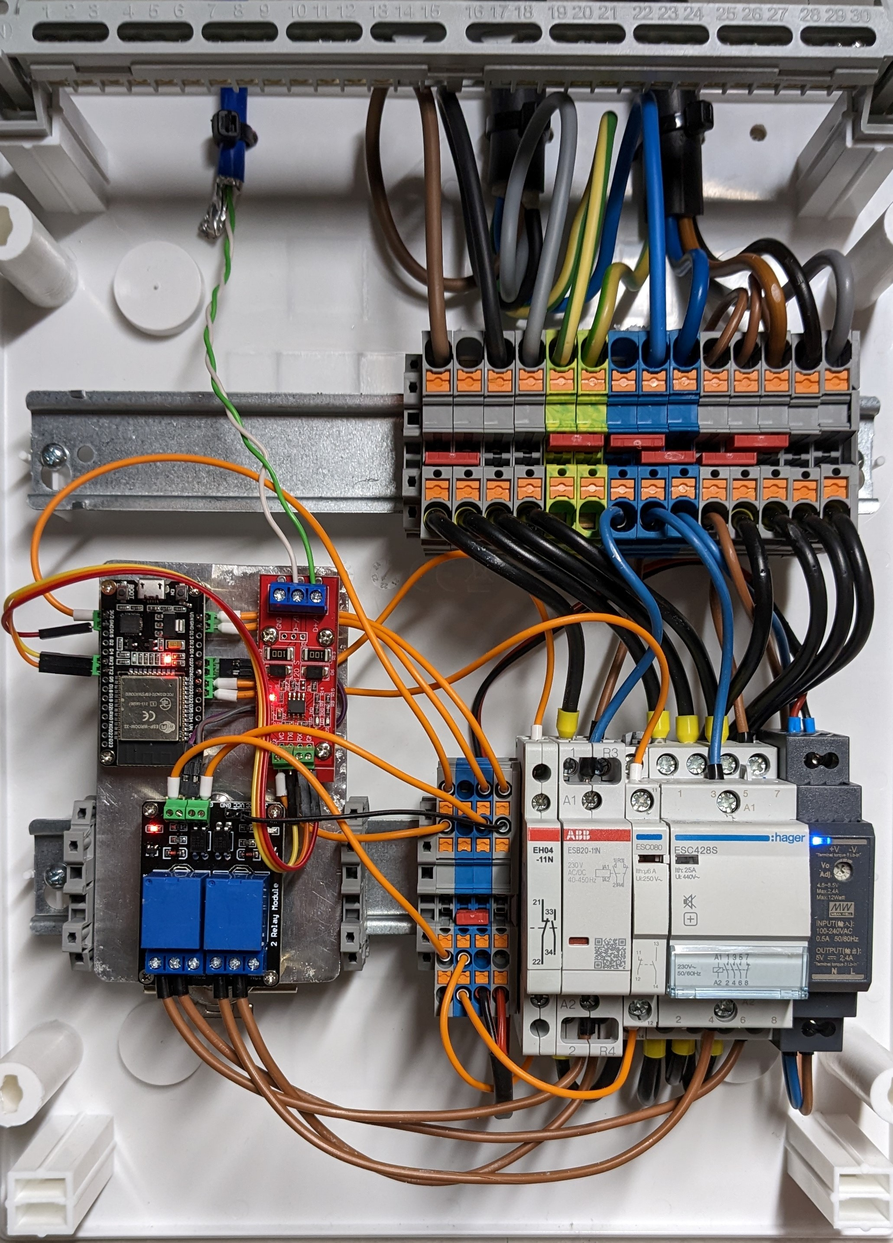
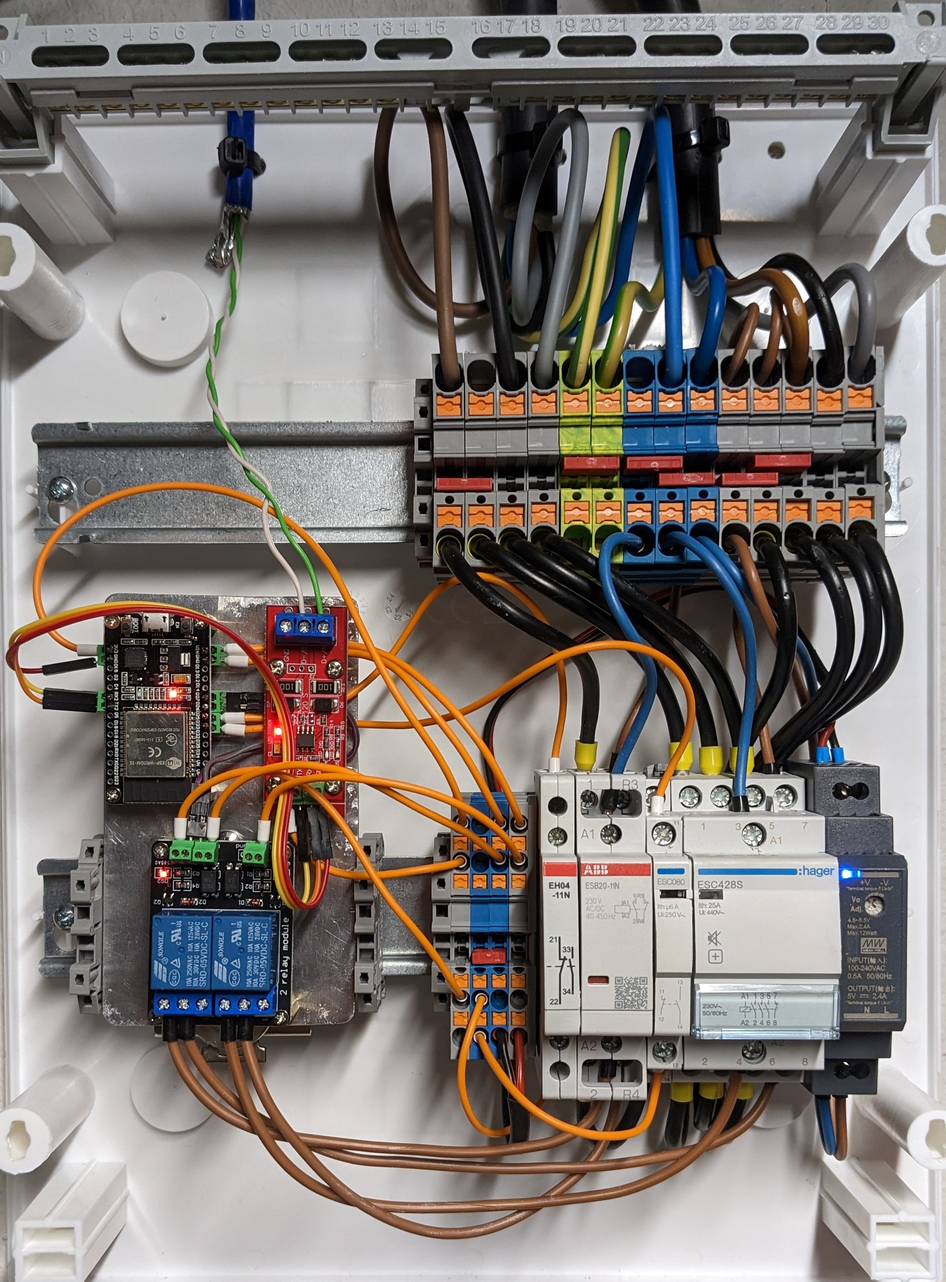
replace relay module

diff --git a/README.md b/README.md
@@ -69,7 +69,7 @@ Folgende Artikel hab ich verbaut (**keine** Affiliate Links):
 | Schütz 3S/1Ö 25A                  | [Hager ESC428S](https://hager.com/de/katalog/produkt/esc428s-installationsschuetz-brumm-25a-3s1oe-230v)
 | Hilfsschalter                     | [Hager ESC080](https://hager.com/de/katalog/produkt/esc080-hilfsschalter-6a-1s1oe)
 | 5V Netzteil                       | [MeanWell HDR-15-5](https://www.amazon.de/dp/B06XWQSJGW)
-| Relais Modul mit Optokoppler      | [AZDelivery 2-Relais Modul 5V mit Optokoppler](https://www.amazon.de/dp/B078Q326KT)
+| Relais Modul mit Optokoppler      | [Yizhet 2 Kanal Relais Modul mit Optokoppler](https://www.amazon.de/dp/B07GXC4FGP)
 | Mikrocontroller                   | [ESP32 DEVKITV1](https://www.amazon.de/dp/B09QXB1PG5) (jeder ESP32 sollte tun - das Devkit hat keine störenden Stiftleisten und Befestigungslöcher)
 | RS-485 TTL Adapter                | [Jopto TTL485-V2.0](https://www.amazon.de/dp/B096ZXXKCR) (mit Befestigungslöchern - die Stiftleiste hab ich gegen Schraubklemmen getauscht)
 | Befestigung RS-485 und ESP        | Das ist der Punkt, wo du kreativ werden musst. Ich hatte noch einen alten NH-Sicherungsblock mit genieteter Hutschienenklemme, Alublech, Nieten und M3-Abstandhalter rumliegen und habe mir was gebastelt.
